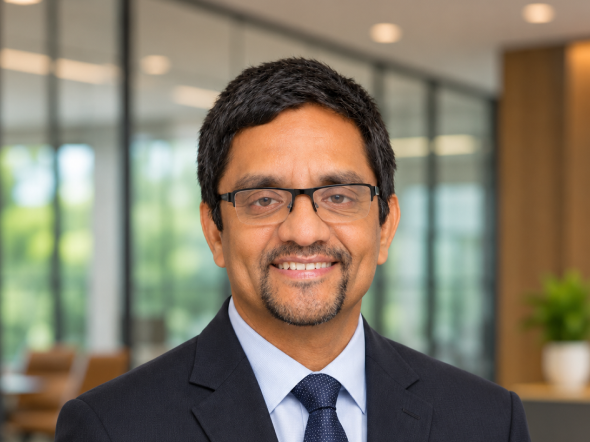
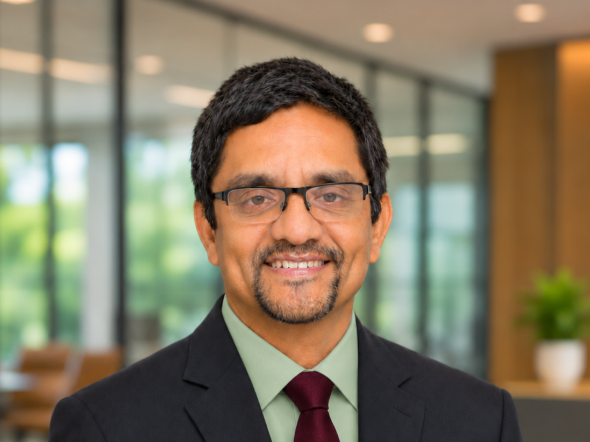
leadership updated

diff --git a/src/data/teamData.js b/src/data/teamData.js
@@ -4,6 +4,7 @@ import chandraMouliImg from '../assets/ChandraMouli-1.png';
 import anishImg from '../assets/Anish-1.png';
 import shivajiImg from '../assets/Shivaji-1.png';
 import sharoonImg from '../assets/Sharoon-1.png';
+import charlieImg from '../assets/charile-1 1.png';
 
 export const leadershipTeam = [
   {
@@ -88,6 +89,20 @@ export const leadershipTeam = [
     highlight: 'Issued AI Patents & High-Consequence Gated Decision Systems',
     bio: 'Sharoon Saxena is a senior AI architect specializing in deploying AI systems for high-consequence, heavily regulated environments. His work has transformed legal research, criminal background verification, and financial reconciliation—turning manual workflows into rapid insight pipelines, accelerating record resolution for high-risk safety assessments, and strengthening transaction monitoring for large-scale breach events. He holds several issued patents defining new standards for data quality and automated decision-making.',
     skills: ['Legal AI Models', 'Patent Author', 'Gated Pipelines', 'High-Consequence Systems']
+  },
+  {
+    id: 'charlie-lowe',
+    name: 'Charlie Lowe',
+    role: 'Channel Sales Head',
+    categoryBadge: 'Channel Sales Head',
+    image: charlieImg,
+    imagePosition: 'center 15%',
+    imageScale: 1.0,
+    transformOrigin: 'center 15%',
+    experience: '37+ Years',
+    highlight: '37+ Years in Claims Management & Property & Casualty Insurance',
+    bio: 'Charlie Lowe has been in the insurance industry for over 37 years with 30 of those years serving in a claims management capacity. He has held various roles throughout his career which has given him a complete understanding and unique perspective concerning both the insurance industry and the property and casualty insurance marketplace. He has built claim organizations from the ground up which included Daily Claims Examination, Field Adjusting, Litigation/Casualty Claims Examination, Catastrophe Response as well as Special Investigative and Fraud Prevention teams. He has implemented numerous Processes, Best Practices, Training, Quality Assurance Programs and Technology Platforms in support of organizational strategic objectives.',
+    skills: ['Channel Sales', 'Claims Management', 'P&C Insurance', 'Litigation & SIU']
   }
 ];
 

diff --git a/src/components/OurTeamSection.jsx b/src/components/OurTeamSection.jsx
@@ -199,9 +199,9 @@ export default function OurTeamSection({ onRequestDemo }) {
             {leadershipTeam.slice(2, 5).map((member) => renderMemberCard(member))}
           </div>
 
-          {/* Row 3: AI Architecture Leadership (Sharoon Saxena) */}
-          <div className="w-full max-w-md mx-auto">
-            {leadershipTeam.slice(5, 6).map((member) => renderMemberCard(member))}
+          {/* Row 3: Architecture & Channel Sales Leadership (Sharoon Saxena & Charlie Lowe) */}
+          <div className="grid grid-cols-1 md:grid-cols-2 gap-6 lg:gap-8 max-w-4xl mx-auto">
+            {leadershipTeam.slice(5, 7).map((member) => renderMemberCard(member))}
           </div>
         </div>
 
